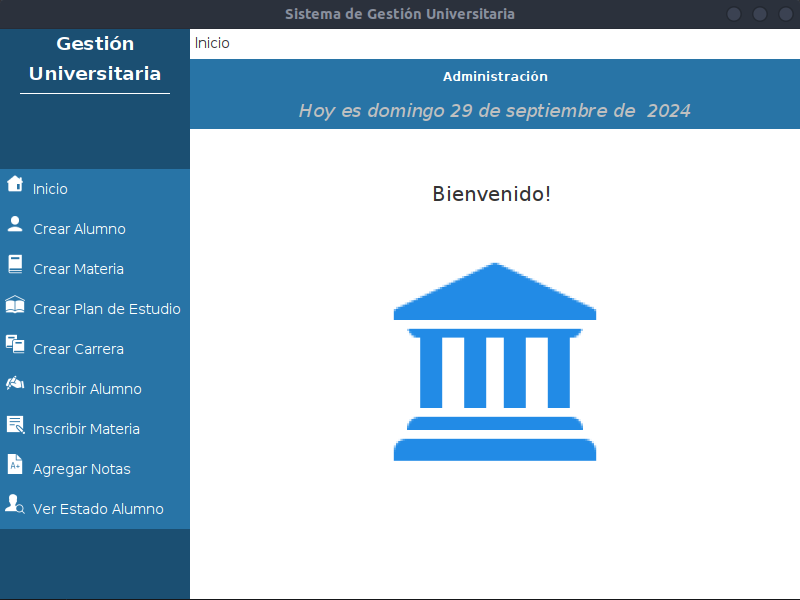
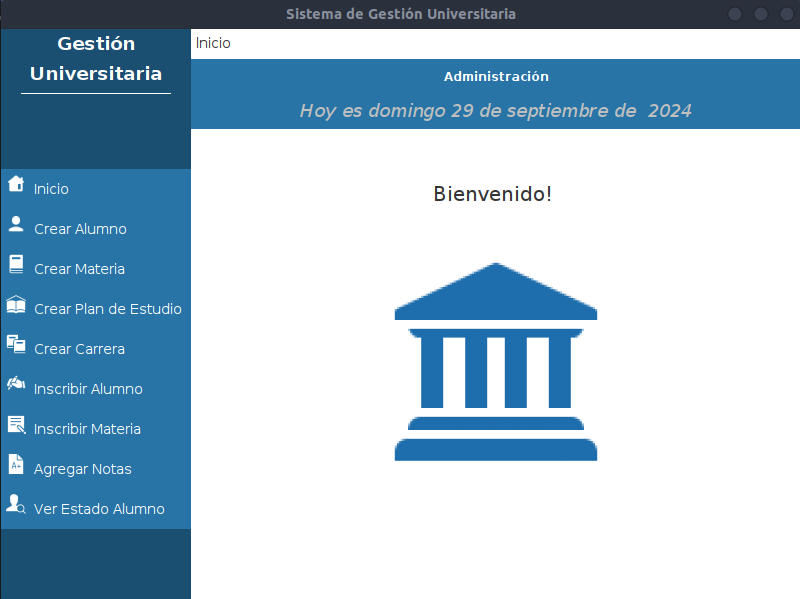
Se modifico view principal

diff --git a/src/view/Principal.java b/src/view/Principal.java
@@ -169,8 +169,7 @@ public class Principal extends JFrame {
 
         bottomRightPanel = new JPanel();
         bottomRightPanel.setBackground(Color.white);
-        bottomRightPanel.add(new JLabel("<html><center><br><br><br>Bienvenido al Sistema de Gestión Universitaria.<br><br>Aquí puedes realizar las siguientes acciones:<br>- Crear Alumno<br>- Crear Materia<br>- Crear Plan de Estudio<br>- Crear Carrera<br>- Inscribir Alumno<br>- Agregar Notas<br>- Ver Estado de Alumno</center></html>", JLabel.CENTER));
-
+        bottomRightPanel.add(new HomeView());
         rightPanel = new JPanel();
         rightPanel.setLayout(new BorderLayout());
         rightPanel.add(topRightPanel, BorderLayout.NORTH);

diff --git a/src/view/HomeView.java b/src/view/HomeView.java
@@ -15,7 +15,7 @@ public class HomeView extends JPanel {
         add(inicio, BorderLayout.NORTH);
 
         // Crear y configurar el ícono
-        ImageIcon icono = new ImageIcon("assets/icons/universidad.png");
+        ImageIcon icono = new ImageIcon("assets/icons/universidad3.png");
         Image img = icono.getImage();
         Image resizedImage = img.getScaledInstance(220, 220, Image.SCALE_SMOOTH);
         icono = new ImageIcon(resizedImage);
